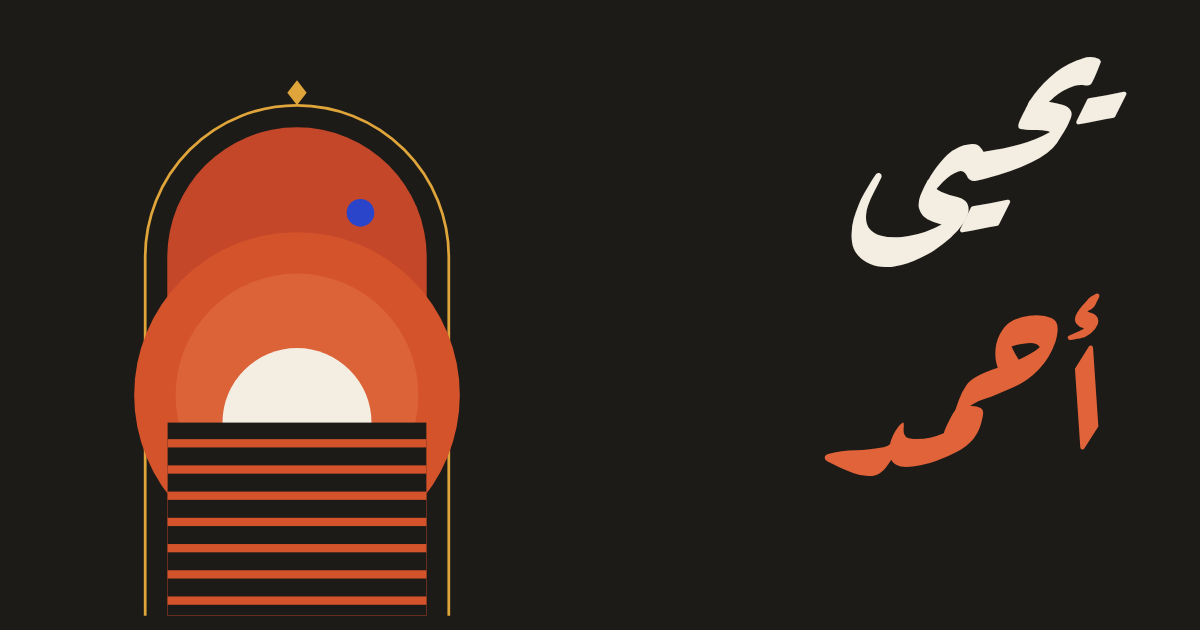
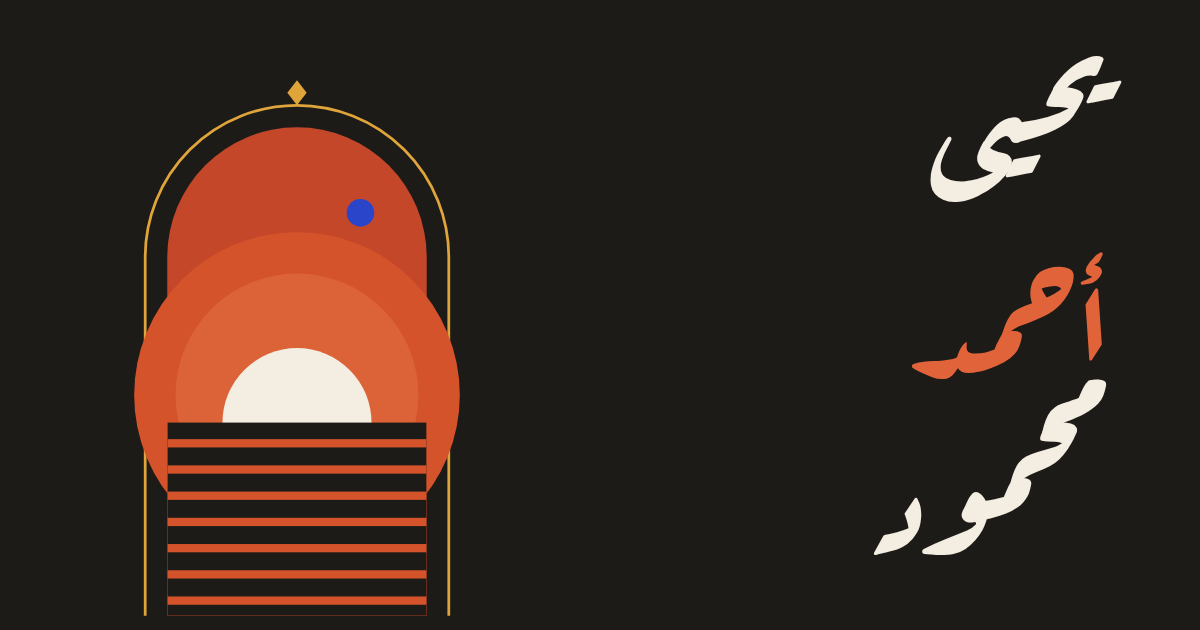
Add files via upload

Changed region(s): [[0.6783, 0.3921, 0.925, 0.9048], [0.7092, 0.0905, 0.9558, 0.4222]]

diff --git a/app.js b/app.js
@@ -1,11 +1,11 @@
-/* موقع يحيى أحمد — واجهة تقرأ المقالات والتعليقات مباشرة من المدونة الأصلية على ووردبريس. */
+/* موقع يحيى أحمد محمود — واجهة تقرأ المقالات والتعليقات مباشرة من المدونة الأصلية على ووردبريس. */
 (function () {
   'use strict';
 
   var C = window.SITE;
   var API = 'https://public-api.wordpress.com/rest/v1.1/sites/' + C.wp;
-  var FIELDS = 'ID,date,modified,title,URL,slug,excerpt,content,categories,tags,discussion';
-  var CACHE_KEY = 'ya.data.v1';
+  var FIELDS = 'ID,date,modified,title,URL,slug,excerpt,content,categories,tags,discussion,featured_image';
+  var CACHE_KEY = 'ya.data.v2';
   var main = document.getElementById('main');
 
   var S = { posts: [], pages: [], byId: {}, quotes: [], ready: false, view: 'cards' };
@@ -110,6 +110,14 @@
     }
     return '<svg class="art" viewBox="0 0 400 300" preserveAspectRatio="xMidYMid meet" aria-hidden="true" focusable="false">' + g + '</svg>';
   }
+  /* الصورة البارزة للمقال إن وُجدت، وإلا الرسمة الهندسية */
+  function imgUrl(u, w) {
+    if (!u) return '';
+    return u + (u.indexOf('?') < 0 && /wordpress\.com\//.test(u) ? '?w=' + w : '');
+  }
+  function visual(p, pi, w) {
+    return p.img ? '<img class="pic" src="' + esc(imgUrl(p.img, w)) + '" alt="" loading="lazy" decoding="async">' : art(p.id, pi);
+  }
   function heroArt() {
     return '<svg class="hero-art" viewBox="0 0 300 420" aria-hidden="true" focusable="false">' +
       '<path d="M40 410V150a110 110 0 0 1 220 0V410" fill="none" stroke="#e0a53a" stroke-width="2"/>' +
@@ -169,7 +177,7 @@
       excerpt: ex, cats: cats, tags: Object.keys(p.tags || {}),
       ncom: (p.discussion && p.discussion.comment_count) || 0,
       comOpen: !!(p.discussion && p.discussion.comments_open),
-      en: isLatin(title), pdf: firstPdf(root), modified: p.modified || ''
+      en: isLatin(title), pdf: firstPdf(root), modified: p.modified || '', img: typeof p.featured_image === 'string' ? p.featured_image : ''
     };
   }
 
@@ -340,7 +348,7 @@
     var idx = palOf(p), pal = PAL[idx];
     var showMins = p.words >= 40;
     return '<article class="card k-' + size + '" style="--cbg:' + pal.bg + ';--cfg:' + pal.fg + '">' +
-      '<div class="card-art">' + art(p.id, idx) + '</div>' +
+      '<div class="card-art' + (p.img ? ' has-img' : '') + '">' + visual(p, idx, 900) + '</div>' +
       '<div class="card-body">' +
         '<p class="card-meta"><span>' + esc(fmtDate(p.d)) + '</span>' + (showMins ? '<span>' + minsLabel(p.mins) + '</span>' : '') + '</p>' +
         '<h3 class="card-title"' + (p.en ? ' dir="ltr" lang="en"' : '') + '><a href="' + url({ p: p.id }) + '" data-link>' + esc(p.title) + '</a></h3>' +
@@ -393,7 +401,8 @@
         var pal = PAL[(i * 3 + 4) % PAL.length];
         return '<article class="book">' +
           '<a class="cover" href="' + url({ p: p.id }) + '" data-link style="--cbg:' + pal.bg + ';--cfg:' + pal.fg + '" aria-label="' + esc(p.title) + '">' +
-            art(p.id + 5, (i * 3 + 4)) + '<span class="cover-t">' + esc(p.title) + '</span><span class="cover-a">يحيى أحمد</span></a>' +
+            (p.img ? '<img class="pic" src="' + esc(imgUrl(p.img, 600)) + '" alt="" loading="lazy" decoding="async">'
+              : art(p.id + 5, (i * 3 + 4)) + '<span class="cover-t">' + esc(p.title) + '</span><span class="cover-a">' + esc(C.name) + '</span>') + '</a>' +
           '<div class="book-body"><h3 class="book-t"><a href="' + url({ p: p.id }) + '" data-link>' + esc(p.title) + '</a></h3>' +
             '<p class="book-meta">' + esc(fmtDate(p.d)) + (p.ncom ? '، ' + countLabel(p.ncom, 'تعليق واحد', 'تعليقان', 'تعليقات', 'تعليقًا') : '') + '</p>' +
             (p.excerpt && p.words >= 40 ? '<p class="book-ex">' + esc(p.excerpt.slice(0, 200)) + '…</p>' : '') +
@@ -423,11 +432,11 @@
 
     var hero = '<section class="hero">' +
       '<div class="hero-name">' + heroArt() +
-        '<h1 class="name"><span>يحيى</span><span class="name-2">أحمد</span></h1>' +
+        '<h1 class="name">' + C.name.split(' ').map(function (w, k) { return '<span' + (k === 1 ? ' class="name-2"' : '') + '>' + esc(w) + '</span>'; }).join('') + '</h1>' +
         '<p class="hero-count">' + esc(document.getElementById('foot-note').textContent) + '</p>' +
       '</div>' +
       '<div class="hero-side">' + quoteBox() +
-        (latest ? '<article class="latest" style="--cbg:' + PAL[palOf(latest)].bg + ';--cfg:' + PAL[palOf(latest)].fg + '">' + art(latest.id, palOf(latest)) +
+        (latest ? '<article class="latest' + (latest.img ? ' has-img' : '') + '" style="--cbg:' + PAL[palOf(latest)].bg + ';--cfg:' + PAL[palOf(latest)].fg + '">' + visual(latest, palOf(latest), 900) +
           '<div class="latest-body"><p class="latest-k">أحدث مقال</p>' +
           '<h2 class="latest-t"' + (latest.en ? ' dir="ltr" lang="en"' : '') + '><a href="' + url({ p: latest.id }) + '" data-link>' + esc(latest.title) + '</a></h2>' +
           '<p class="card-meta"><span>' + esc(fmtDate(latest.d)) + '</span>' + (latest.words >= 40 ? '<span>' + minsLabel(latest.mins) + '</span>' : '') + '</p></div></article>' : '') +
@@ -481,12 +490,12 @@
     var newer = S.posts[p.i - 1], older = S.posts[p.i + 1];
     var share = encodeURIComponent(location.href), st = encodeURIComponent(p.title);
     var html = '<article class="post">' +
-      '<header class="post-head" style="--cbg:' + pal.bg + ';--cfg:' + pal.fg + '">' + art(p.id, palOf(p)) +
+      '<header class="post-head' + (p.img ? ' has-img' : '') + '" style="--cbg:' + pal.bg + ';--cfg:' + pal.fg + '">' + visual(p, palOf(p), 1400) +
         '<div class="post-head-in">' +
           '<p class="post-meta">' + catChips(p) + '<span class="tag plain">' + esc(fmtDate(p.d)) + '</span>' +
             (p.words >= 40 ? '<span class="tag plain">' + minsLabel(p.mins) + '</span>' : '') + '</p>' +
           '<h1 class="post-title"' + (p.en ? ' dir="ltr" lang="en"' : '') + '>' + esc(p.title) + '</h1>' +
-          '<p class="by">بقلم يحيى أحمد</p>' +
+          '<p class="by">بقلم ' + esc(C.name) + '</p>' +
         '</div></header>' + toggle +
       '<div class="prose' + (bodyLang === 'en' ? ' en' : '') + '" id="prose" dir="' + (bodyLang === 'en' ? 'ltr' : 'rtl') + '" lang="' + bodyLang + '"></div>' +
       (p.tags.length ? '<p class="tags"><span class="flabel">الوسوم</span>' + p.tags.map(function (t) { return '<a class="tag" href="' + url({ t: t }) + '" data-link>#' + esc(t) + '</a>'; }).join('') + '</p>' : '') +
@@ -697,12 +706,13 @@
 
   /* ---------- التشغيل ---------- */
   S.view = read('ya.view') === 'list' ? 'list' : 'cards';
+  try { localStorage.removeItem('ya.data.v1'); } catch (e) {}
   var cached = null;
   try { cached = JSON.parse(read(CACHE_KEY) || 'null'); } catch (e) { cached = null; }
   if (cached && cached.posts && cached.posts.length) { setData(cached.posts, cached.pages || []); route({ nav: false }); }
 
   Promise.all([fetchAllPosts(), fetchPages()]).then(function (r) {
-    var sig = function (posts) { return posts.map(function (p) { return p.ID + ':' + (p.modified || '') + ':' + ((p.discussion || {}).comment_count || 0); }).join('|'); };
+    var sig = function (posts) { return posts.map(function (p) { return p.ID + ':' + (p.modified || '') + ':' + ((p.discussion || {}).comment_count || 0) + ':' + (p.featured_image || ''); }).join('|'); };
     var changed = !cached || !cached.posts || sig(cached.posts) !== sig(r[0]) || (cached.pages || []).length !== r[1].length;
     store(CACHE_KEY, JSON.stringify({ t: Date.now(), posts: r[0], pages: r[1] }));
     if (!S.ready || (changed && !currentPost)) {

diff --git a/index.html b/index.html
@@ -3,20 +3,20 @@
 <head>
 <meta charset="utf-8">
 <meta name="viewport" content="width=device-width, initial-scale=1">
-<title>يحيى أحمد</title>
-<meta name="description" content="مقالات وكتيبات يحيى أحمد في اللغة والأدب والاجتماع والسياسة والرحلات، منذ ٢٠١٥.">
-<meta property="og:site_name" content="يحيى أحمد">
-<meta property="og:title" content="يحيى أحمد">
-<meta property="og:description" content="مقالات وكتيبات يحيى أحمد في اللغة والأدب والاجتماع والسياسة والرحلات، منذ ٢٠١٥.">
+<title>يحيى أحمد محمود</title>
+<meta name="description" content="مقالات وكتيبات يحيى أحمد محمود في اللغة والأدب والاجتماع والسياسة والرحلات، منذ ٢٠١٥.">
+<meta property="og:site_name" content="يحيى أحمد محمود">
+<meta property="og:title" content="يحيى أحمد محمود">
+<meta property="og:description" content="مقالات وكتيبات يحيى أحمد محمود في اللغة والأدب والاجتماع والسياسة والرحلات، منذ ٢٠١٥.">
 <meta property="og:type" content="website">
 <meta property="og:image" content="https://yahyaahmedmahmoud.github.io/og.png">
 <meta name="twitter:card" content="summary_large_image">
 <meta name="theme-color" content="#f5efe4">
-<link rel="alternate" type="application/rss+xml" title="يحيى أحمد" href="https://yahyaahmedmahmoud.wordpress.com/feed/">
+<link rel="alternate" type="application/rss+xml" title="يحيى أحمد محمود" href="https://yahyaahmedmahmoud.wordpress.com/feed/">
 <link rel="icon" href="favicon.svg" type="image/svg+xml">
 <link rel="preload" href="amiri-ar-400.woff2" as="font" type="font/woff2" crossorigin>
 <link rel="preload" href="readex-ar.woff2" as="font" type="font/woff2" crossorigin>
-<link rel="stylesheet" href="style.css?v=2">
+<link rel="stylesheet" href="style.css?v=3">
 <script>
 try { var t = localStorage.getItem('ya.theme'); if (t) document.documentElement.setAttribute('data-theme', t); } catch (e) {}
 </script>
@@ -27,7 +27,7 @@ try { var t = localStorage.getItem('ya.theme'); if (t) document.documentElement.
 
 <header class="top">
   <div class="wrap top-in">
-    <a class="brand" href="./" data-link aria-label="يحيى أحمد — الصفحة الرئيسية">يحيى أحمد</a>
+    <a class="brand" href="./" data-link aria-label="يحيى أحمد محمود — الصفحة الرئيسية">يحيى أحمد محمود</a>
     <nav class="nav" aria-label="القائمة الرئيسية">
       <a href="./?v=articles" data-link>المقالات</a>
       <a href="./?c=%D9%83%D8%AA%D9%8A%D8%A8%D8%A7%D8%AA" data-link>الكتيبات</a>
@@ -51,7 +51,7 @@ try { var t = localStorage.getItem('ya.theme'); if (t) document.documentElement.
 
 <footer class="foot">
   <div class="wrap foot-in">
-    <a class="brand" href="./" data-link>يحيى أحمد</a>
+    <a class="brand" href="./" data-link>يحيى أحمد محمود</a>
     <nav class="foot-nav" aria-label="روابط">
       <a href="./?v=articles" data-link>المقالات</a>
       <a href="./?c=%D9%83%D8%AA%D9%8A%D8%A8%D8%A7%D8%AA" data-link>الكتيبات</a>
@@ -76,7 +76,7 @@ try { var t = localStorage.getItem('ya.theme'); if (t) document.documentElement.
 </div>
 
 <noscript><p class="wrap" style="padding:40px 20px">يحتاج هذا الموقع إلى تفعيل JavaScript. يمكنك قراءة المقالات على <a href="https://yahyaahmedmahmoud.wordpress.com/">المدونة الأصلية</a>.</p></noscript>
-<script src="config.js?v=2"></script>
-<script src="app.js?v=2"></script>
+<script src="config.js?v=3"></script>
+<script src="app.js?v=3"></script>
 </body>
 </html>

diff --git a/style.css b/style.css
@@ -71,7 +71,7 @@ main:focus { outline: none; }
 /* ===== الواجهة ===== */
 .hero { display: grid; grid-template-columns: minmax(0, 1.42fr) minmax(0, 1fr); gap: 16px; padding-top: 24px; }
 .hero-name { position: relative; overflow: hidden; background: var(--panel); color: var(--panel-ink); border-radius: var(--r); min-height: 560px; padding: clamp(24px, 4vw, 56px); display: flex; flex-direction: column; justify-content: space-between; }
-.name { margin: 0; font-family: var(--hand); font-weight: 700; font-size: clamp(84px, 10.5vw, 148px); line-height: 1.12; position: relative; z-index: 1; }
+.name { margin: 0; font-family: var(--hand); font-weight: 700; font-size: clamp(64px, 7.4vw, 104px); line-height: 1.36; position: relative; z-index: 1; }
 .name span { display: block; }
 .name-2 { color: #e0633a; }
 .hero-art { position: absolute; inset-inline-end: clamp(16px, 3vw, 44px); bottom: 0; height: 76%; width: auto; }
@@ -96,6 +96,15 @@ main:focus { outline: none; }
 .latest-t { margin: 0; font-family: var(--read); font-weight: 700; font-size: clamp(24px, 2.3vw, 32px); line-height: 1.5; }
 .latest-t a, .card-title a, .book-t a { text-decoration: none; }
 .latest-t a::after, .card-title a::after { content: ""; position: absolute; inset: 0; }
+
+/* ===== الصورة البارزة بدل الرسمة ===== */
+.pic { display: block; width: 100%; height: 100%; object-fit: cover; }
+.card-art.has-img { margin: 0; flex-basis: 150px; min-height: 150px; }
+.card-art.has-img .pic { position: absolute; inset: 0; }
+.k-wide .card-art.has-img { margin: 0; }
+.latest.has-img .pic { order: 2; min-height: 100%; }
+.post-head.has-img .pic { order: 2; min-height: 300px; }
+.cover .pic { position: absolute; inset: 0; }
 
 /* ===== عناوين الأقسام ===== */
 .sec-h { margin: 0; font-family: var(--read); font-weight: 700; font-size: clamp(32px, 4vw, 48px); line-height: 1.3; }
@@ -264,6 +273,7 @@ main:focus { outline: none; }
   .k-lg { grid-row: span 1; }
   .post-head { grid-template-columns: 1fr; min-height: 0; }
   .post-head .art { order: 0; height: 170px; padding: 18px 18px 0; }
+  .post-head.has-img .pic { order: 0; height: 240px; min-height: 0; }
 }
 @media (max-width: 700px) {
   .top-in { flex-wrap: wrap; gap: 0 8px; padding-top: 4px; }
@@ -275,9 +285,11 @@ main:focus { outline: none; }
   .hero-side { grid-template-columns: 1fr; }
   .hero-name { min-height: 380px; }
   .hero-art { height: 56%; inset-inline-end: 14px; }
-  .name { font-size: clamp(64px, 19vw, 92px); }
+  .name { font-size: clamp(48px, 14.5vw, 68px); }
+  .hero-name { min-height: 400px; }
   .latest { grid-template-columns: 1fr; }
   .latest .art { order: 0; height: 130px; padding: 14px 14px 0; }
+  .latest.has-img .pic { order: 0; height: 170px; min-height: 0; }
   .book { grid-template-columns: 1fr; }
   .cover { width: 170px; }
   .grid { grid-template-columns: 1fr; grid-auto-rows: auto; }

diff --git a/config.js b/config.js
@@ -1,6 +1,6 @@
 /* إعدادات الموقع — هذا الملف وحده يكفي لتعديل التصنيفات والاقتباسات. */
 window.SITE = {
-  name: 'يحيى أحمد',
+  name: 'يحيى أحمد محمود',
   /* المدونة الأصلية التي يقرأ منها الموقع مباشرة */
   wp: 'yahyaahmedmahmoud.wordpress.com',
 

diff --git a/404.html b/404.html
@@ -3,7 +3,7 @@
 <head>
 <meta charset="utf-8">
 <meta name="viewport" content="width=device-width, initial-scale=1">
-<title>الصفحة غير موجودة — يحيى أحمد</title>
+<title>الصفحة غير موجودة — يحيى أحمد محمود</title>
 <meta name="robots" content="noindex">
 <link rel="stylesheet" href="/style.css?v=1">
 </head>

diff --git a/README.md b/README.md
@@ -1,4 +1,4 @@
-# موقع يحيى أحمد
+# موقع يحيى أحمد محمود
 
 واجهة تعرض مقالات المدونة الأصلية <https://yahyaahmedmahmoud.wordpress.com> وتعليقاتها مباشرة. لا توجد نسخة ثانية من المقالات هنا: كل ما يُنشر أو يُعدَّل على ووردبريس يظهر في الموقع تلقائيًا.
 
@@ -13,6 +13,9 @@
 
 ## الكتيبات
 أي مقال في تصنيف «كتيبات» يظهر في قسم الكتيبات بالواجهة. أرفق ملف PDF داخل المقال (مكوّن «ملف» في ووردبريس) ليظهر زر التحميل.
+
+## صورة المقال
+ضع «الصورة البارزة» (Featured image) للمقال على ووردبريس، فتظهر في رأس المقال وعلى بطاقته بدل الرسمة الهندسية. المقال الذي بلا صورة يبقى بالرسمة. وصورة الكتيب البارزة تصير غلافه.
 
 ## الاقتباسات
 تُعدَّل بإحدى طريقتين:
